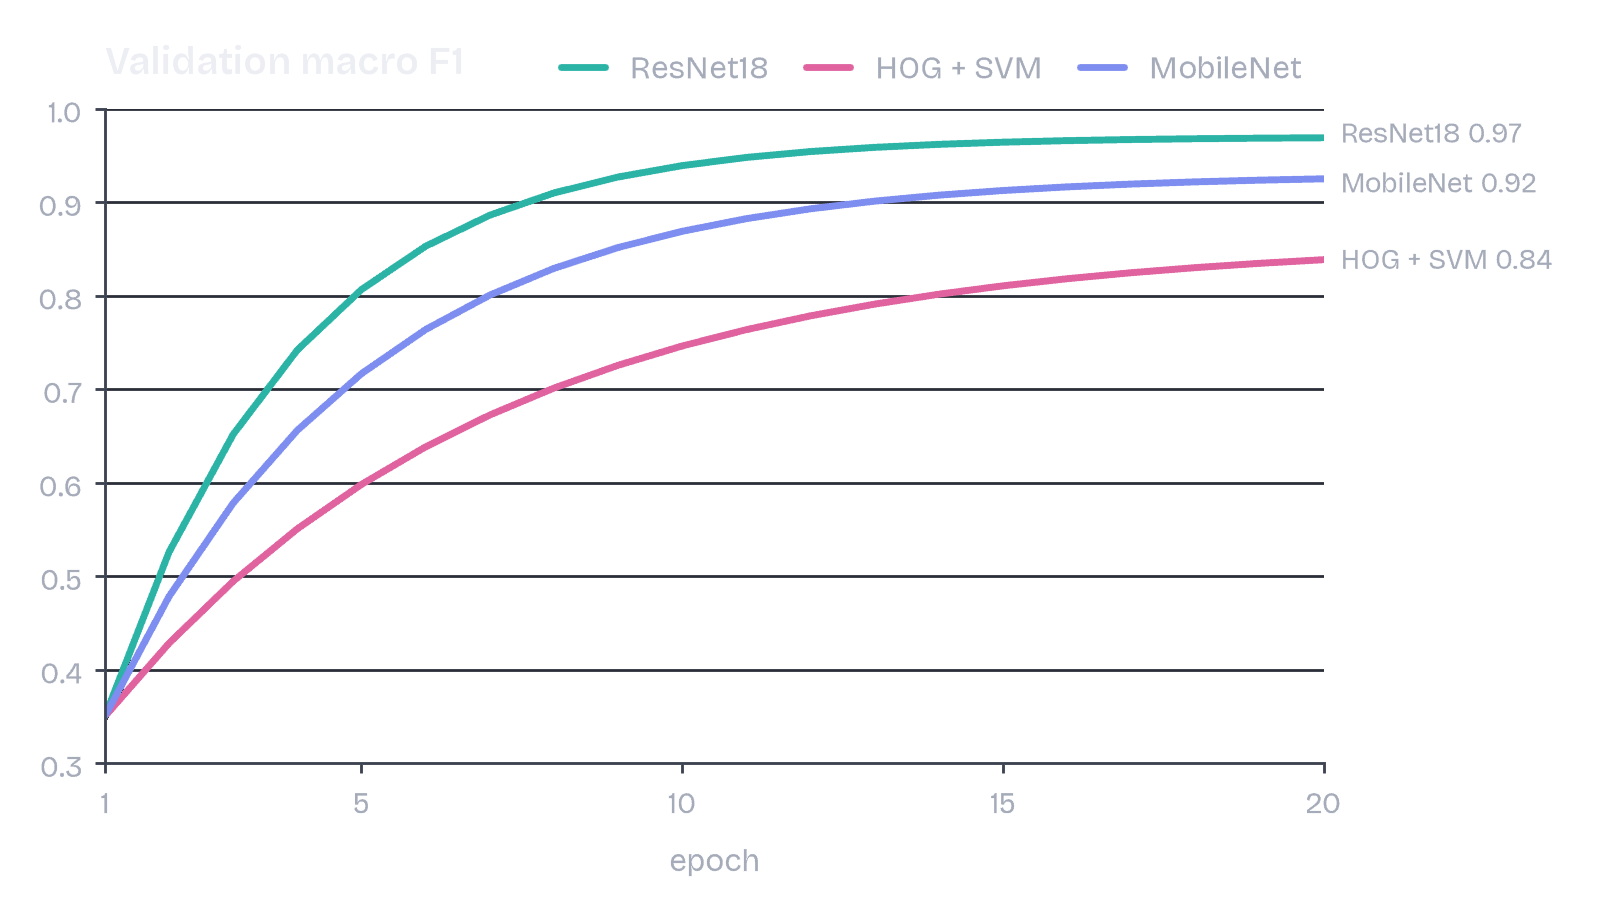
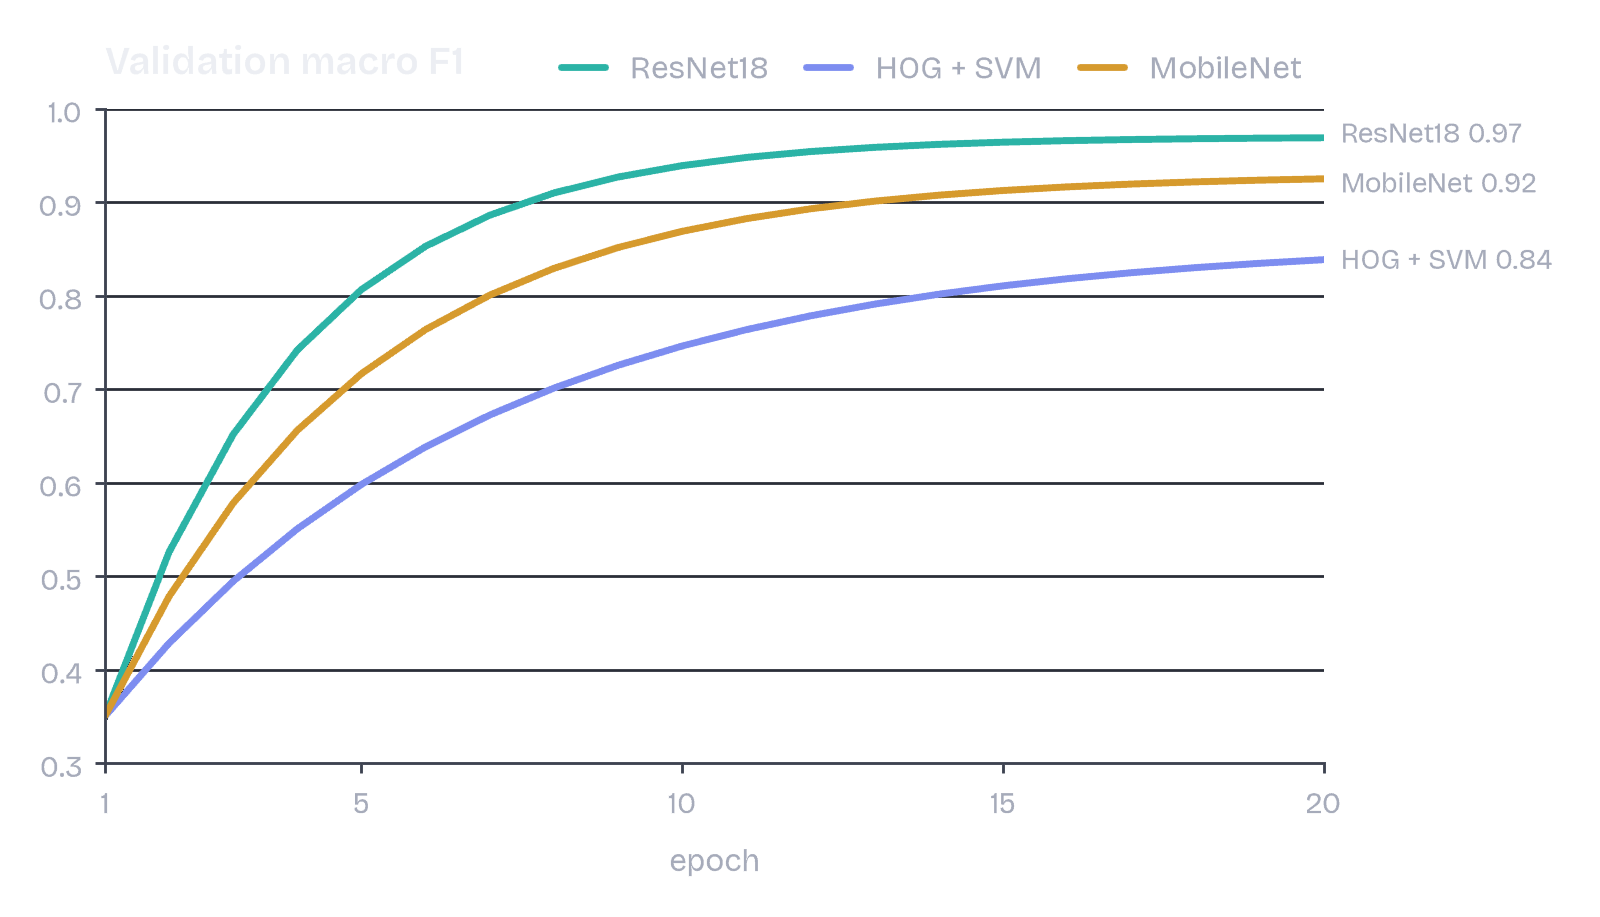
feat: check accessibility of style colours with figkit check --a11y

diff --git a/src/figkit/access.py b/src/figkit/access.py
@@ -1,0 +1,144 @@
+"""Accessibility of the colours of a style, for ``figkit check --a11y``.
+
+Three rules, checked in every theme against every page colour the theme is meant for:
+
+* Text contrast (WCAG 2.2): ``ink`` and ``secondary`` reach 4.5:1, the level of small text;
+  ``muted`` marks such as reference lines reach 3:1, the level of graphical objects.
+* Series: neighbouring slots stay apart for readers with protanopia and deuteranopia, simulated
+  after Machado, Oliveira and Fernandes (2009) at full severity, and for everyone else. The
+  distance is Euclidean in OKLab times 100, with the floors of the dataviz palette validator
+  that the bundled series were checked with: 6 under simulation and 15 in normal vision.
+* Ramp: lightness changes in one direction with a visible step between neighbours.
+
+Series below 3:1 against the page are allowed, because figures label such marks directly; see
+``docs/style-guide.md``. Alt texts are checked with the manifest by :func:`figkit.check.check`.
+"""
+
+import itertools
+import math
+from collections.abc import Sequence
+
+from figkit.theme import DEFAULT, Style, Theme
+
+TEXT_CONTRAST = 4.5
+MARK_CONTRAST = 3.0
+CVD_FLOOR = 6.0
+NORMAL_FLOOR = 15.0
+RAMP_STEP = 0.06  # OKLCH lightness between neighbouring ramp colours
+
+Matrix = tuple[tuple[float, float, float], ...]
+
+# Machado, Oliveira and Fernandes (2009), severity 1.0, applied to linear RGB.
+_SIMULATION: dict[str, Matrix] = {
+    "protanopia": (
+        (0.152286, 1.052583, -0.204868),
+        (0.114503, 0.786281, 0.099216),
+        (-0.003882, -0.048116, 1.051998),
+    ),
+    "deuteranopia": (
+        (0.367322, 0.860646, -0.227968),
+        (0.280085, 0.672501, 0.047413),
+        (-0.011820, 0.042940, 0.968881),
+    ),
+}
+
+
+def _linear(colour: str) -> tuple[float, float, float]:
+    """Linear RGB of ``#rrggbb``."""
+    channels = (int(colour[i : i + 2], 16) / 255 for i in (1, 3, 5))
+    r, g, b = (c / 12.92 if c <= 0.04045 else ((c + 0.055) / 1.055) ** 2.4 for c in channels)
+    return r, g, b
+
+
+def contrast(a: str, b: str) -> float:
+    """WCAG contrast ratio of two colours, from 1 to 21."""
+
+    def luminance(colour: str) -> float:
+        r, g, b = _linear(colour)
+        return 0.2126 * r + 0.7152 * g + 0.0722 * b
+
+    high, low = sorted((luminance(a), luminance(b)), reverse=True)
+    return (high + 0.05) / (low + 0.05)
+
+
+def _oklab(rgb: Sequence[float]) -> tuple[float, float, float]:
+    r, g, b = rgb
+    l_ = math.cbrt(0.4122214708 * r + 0.5363325363 * g + 0.0514459929 * b)
+    m_ = math.cbrt(0.2119034982 * r + 0.6806995451 * g + 0.1073969566 * b)
+    s_ = math.cbrt(0.0883024619 * r + 0.2817188376 * g + 0.6299787005 * b)
+    return (
+        0.2104542553 * l_ + 0.7936177850 * m_ - 0.0040720468 * s_,
+        1.9779984951 * l_ - 2.4285922050 * m_ + 0.4505937099 * s_,
+        0.0259040371 * l_ + 0.7827717662 * m_ - 0.8086757660 * s_,
+    )
+
+
+def _simulate(colour: str, vision: str | None) -> tuple[float, float, float]:
+    rgb = _linear(colour)
+    if vision is None:
+        return rgb
+    r, g, b = (
+        min(1.0, max(0.0, row[0] * rgb[0] + row[1] * rgb[1] + row[2] * rgb[2]))
+        for row in _SIMULATION[vision]
+    )
+    return r, g, b
+
+
+def distance(a: str, b: str, vision: str | None = None) -> float:
+    """OKLab distance times 100 of two colours, seen with ``vision`` or with normal vision."""
+    return 100 * math.dist(_oklab(_simulate(a, vision)), _oklab(_simulate(b, vision)))
+
+
+def lightness(colour: str) -> float:
+    """OKLCH lightness from 0 to 1."""
+    return _oklab(_linear(colour))[0]
+
+
+def check_style(style: Style | None = None) -> list[str]:
+    """Accessibility problems of the colours of ``style``; an empty list means it passes.
+
+    Returns:
+        One message per problem, starting with the theme it concerns.
+    """
+    style = style or DEFAULT
+    return [problem for theme in style.themes for problem in _theme_problems(theme)]
+
+
+def _theme_problems(theme: Theme) -> list[str]:
+    problems = []
+    for role, minimum in (
+        ("ink", TEXT_CONTRAST),
+        ("secondary", TEXT_CONTRAST),
+        ("muted", MARK_CONTRAST),
+    ):
+        colour: str = getattr(theme, role)
+        for page in theme.pages:
+            ratio = contrast(colour, page)
+            if ratio < minimum:
+                problems.append(
+                    f"{theme.name}: {role} {colour} has {ratio:.2f}:1 on {page}, "
+                    f"needs {minimum:g}:1"
+                )
+    for i, (a, b) in enumerate(itertools.pairwise(theme.series)):
+        pair = f"series {i + 1} {a} and {i + 2} {b}"
+        for vision in _SIMULATION:
+            gap = distance(a, b, vision)
+            if gap < CVD_FLOOR:
+                problems.append(
+                    f"{theme.name}: {pair} are {gap:.1f} apart with {vision}, need {CVD_FLOOR:g}"
+                )
+        gap = distance(a, b)
+        if gap < NORMAL_FLOOR:
+            problems.append(f"{theme.name}: {pair} are {gap:.1f} apart, need {NORMAL_FLOOR:g}")
+    levels = [lightness(c) for c in theme.ramp]
+    steps = [b - a for a, b in itertools.pairwise(levels)]
+    if steps and not (all(s > 0 for s in steps) or all(s < 0 for s in steps)):
+        problems.append(f"{theme.name}: ramp lightness does not change in one direction")
+    else:
+        problems += [
+            f"{theme.name}: ramp {theme.ramp[i]} and {theme.ramp[i + 1]} differ by "
+            f"{abs(step):.3f} in lightness, need {RAMP_STEP:g}"
+            for i, step in enumerate(steps)
+            if abs(step) < RAMP_STEP
+        ]
+    return problems

diff --git a/tests/test_access.py b/tests/test_access.py
@@ -1,0 +1,84 @@
+"""Accessibility of the colours of a style."""
+
+import json
+from pathlib import Path
+from typing import Any
+
+import pytest
+
+import figkit
+from figkit.access import check_style, contrast, distance
+from figkit.cli import main
+
+ROOT = Path(__file__).resolve().parents[1]
+
+
+def style_with(change: dict[str, Any]) -> figkit.Style:
+    """The bundled style with the keys of ``change`` replaced in its light theme."""
+    data = json.loads(json.dumps(figkit.tokens()))
+    data["themes"]["light"].update(change)
+    return figkit.parse_style(data)
+
+
+def test_the_bundled_and_the_example_style_pass() -> None:
+    assert check_style() == []
+    assert check_style(figkit.load_style(ROOT / "docs/examples/style/tokens.json")) == []
+
+
+def test_contrast_and_distance_match_known_values() -> None:
+    assert contrast("#000000", "#ffffff") == pytest.approx(21)
+    assert contrast("#777777", "#ffffff") == pytest.approx(4.48, abs=0.01)
+    assert distance("#000000", "#ffffff") == pytest.approx(100, abs=0.01)
+    # Red and green, far apart in normal vision, nearly merge without red cones.
+    assert distance("#d03b3b", "#3b8f3b") > 15
+    assert distance("#d03b3b", "#3b8f3b", "protanopia") < distance("#d03b3b", "#3b8f3b") / 2
+
+
+@pytest.mark.parametrize(
+    ("change", "problem"),
+    [
+        ({"ink": "#999999"}, "light: ink #999999 has 2.69:1 on #faf8f4, needs 4.5:1"),
+        ({"secondary": "#8a8a8a"}, "light: secondary #8a8a8a has"),
+        ({"muted": "#c0c0c0"}, "light: muted #c0c0c0 has"),
+        (
+            {"series": ["#0f766e", "#b4387a", "#1baf7a", "#eda100"]},
+            "light: series 1 #0f766e and 2 #b4387a are 4.0 apart with deuteranopia, need 6",
+        ),
+        (
+            {"series": ["#2f5bd3", "#3060d8", "#1baf7a", "#eda100"]},
+            "light: series 1 #2f5bd3 and 2 #3060d8 are",
+        ),
+        ({"ramp": ["#f4f8fd", "#9ec5f4", "#cde2fb"]}, "light: ramp lightness does not change"),
+        ({"ramp": ["#f4f8fd", "#eef4fc"]}, "light: ramp #f4f8fd and #eef4fc differ by"),
+    ],
+)
+def test_each_rule_reports_its_problem(change: dict[str, Any], problem: str) -> None:
+    problems = check_style(style_with(change))
+
+    assert any(p.startswith(problem) for p in problems), problems
+    assert all(p.startswith("light:") for p in problems)
+
+
+def test_close_series_fail_in_normal_vision_too() -> None:
+    problems = check_style(style_with({"series": ["#2f5bd3", "#3060d8", "#1baf7a", "#eda100"]}))
+
+    assert any(p.endswith("need 15") for p in problems)
+
+
+def test_cli_checks_the_style_only_with_a11y(
+    tmp_path: Path, monkeypatch: pytest.MonkeyPatch, capsys: pytest.CaptureFixture[str]
+) -> None:
+    data = json.loads(json.dumps(figkit.tokens()))
+    data["themes"]["dark"]["secondary"] = "#3d4250"
+    (tmp_path / "tokens.json").write_text(json.dumps(data), encoding="utf-8")
+    (tmp_path / "pyproject.toml").write_text(
+        '[tool.figkit]\ntokens = "tokens.json"\n', encoding="utf-8"
+    )
+    (tmp_path / "figures").mkdir()
+    monkeypatch.chdir(tmp_path)
+
+    assert main(["check", "figures"]) == 0
+    assert main(["check", "--a11y"]) == 1
+    assert "tokens.json: dark: secondary #3d4250 has" in capsys.readouterr().err
+    assert main(["check", "--a11y", "--style", str(ROOT / "src/figkit/tokens.json")]) == 0
+    assert "tokens.json: accessible" in capsys.readouterr().out

diff --git a/src/figkit/cli.py b/src/figkit/cli.py
@@ -5,6 +5,7 @@ import sys
 from collections.abc import Sequence
 from pathlib import Path
 
+from figkit.access import check_style
 from figkit.check import check, check_tokens
 from figkit.export import WEB_WIDTH
 from figkit.preview import preview
@@ -36,6 +37,11 @@ def main(argv: Sequence[str] | None = None) -> int:
         "--any-width",
         action="store_true",
         help="do not require the fixed canvas width of web figures",
+    )
+    checker.add_argument(
+        "--a11y",
+        action="store_true",
+        help="check the contrast of text, the colour-blind separation of series and the ramp",
     )
     checker.add_argument(
         "--css",
@@ -121,6 +127,15 @@ def _preview(directory: Path, tokens: Path | None) -> int:
     return 0
 
 
+def _report(problems: list[str], passed: str) -> bool:
+    """Print the problems, or ``passed`` without any; return whether there were problems."""
+    for problem in problems:
+        print(problem, file=sys.stderr)
+    if not problems:
+        print(passed)
+    return bool(problems)
+
+
 def _check(parser: argparse.ArgumentParser, args: argparse.Namespace) -> int:
     try:
         settings = project()
@@ -129,20 +144,19 @@ def _check(parser: argparse.ArgumentParser, args: argparse.Namespace) -> int:
         print(error, file=sys.stderr)
         return 1
     css = args.css or settings.css
-    if not args.directories and css is None:
-        parser.error("check needs a directory, --css or css in [tool.figkit]")
+    if not args.directories and css is None and not args.a11y:
+        parser.error("check needs a directory, --a11y, --css or css in [tool.figkit]")
 
     failed = False
+    if args.a11y:
+        label = str(style.source) if style.source is not None else "bundled style"
+        failed = _report([f"{label}: {p}" for p in check_style(style)], f"{label}: accessible")
     if css is not None:
         try:
             problems = check_tokens(css, style)
         except OSError as error:
             problems = [f"{css}: cannot be read, {error.strerror or error}"]
-        for problem in problems:
-            print(problem, file=sys.stderr)
-        failed = bool(problems)
-        if not problems:
-            print(f"{css}: ok")
+        failed = _report(problems, f"{css}: ok") or failed
     for directory in args.directories:
         if not directory.is_dir():
             print(f"{directory}: not a directory", file=sys.stderr)

diff --git a/README.md b/README.md
@@ -263,7 +263,7 @@ other series colours and a `print` theme; the same line chart in it:
   <tr>
     <td width="50%"><picture>
       <source media="(prefers-color-scheme: dark)" srcset="docs/examples/style/lines-dark.svg">
-      <img src="docs/examples/style/lines.svg" alt="The line chart in the example style with teal, magenta and blue lines.">
+      <img src="docs/examples/style/lines.svg" alt="The line chart in the example style with teal, blue and amber lines.">
     </picture></td>
     <td width="50%"><img src="docs/examples/style/lines-print.png" alt="The line chart in the print theme of the example style, in black and greys."></td>
   </tr>
@@ -324,7 +324,7 @@ figure uses it.
 ## Command line
 
 ```sh
-figkit check [DIRECTORY ...] [--css CSS] [--style TOKENS] [--opaque NAME] [--any-width]
+figkit check [DIRECTORY ...] [--a11y] [--css CSS] [--style TOKENS] [--opaque NAME] [--any-width]
 figkit init [--tokens TOKENS] [--css CSS]
 figkit style preview [DIRECTORY] [--style TOKENS]
 ```
@@ -344,6 +344,7 @@ the minimum size of the style fails the preview.
 | `--style TOKENS` | Style that wrote the figures; overrides `[tool.figkit]`. |
 | `--opaque NAME` | Figure that is opaque on purpose; repeatable, default `card`. |
 | `--any-width` | Does not require the fixed canvas width of web figures. |
+| `--a11y` | Checks the colours of the style: text contrast (WCAG), the separation of neighbouring series under protanopia, deuteranopia and normal vision, and an evenly stepped ramp. Works without a directory. |
 
 The exit code is 1 on any problem:
 

diff --git a/CHANGELOG.md b/CHANGELOG.md
@@ -18,6 +18,16 @@ section of that version.
   `small_multiples` lays out panels on the canvas width with shared axes and `ramp_cmap` turns
   the ramp of a theme into a colormap.
 - The gallery shows small multiples with bands and a callout.
+- `figkit check --a11y` checks the colours of the style: text contrast after WCAG, the
+  separation of neighbouring series with protanopia, deuteranopia and normal vision, and the
+  steps of the ramp. It runs without a directory as well.
+
+### Changed
+
+- The dark ramp of the bundled style is stepped evenly in lightness. Three middle steps were
+  less than 0.06 apart; dark heatmaps and the tiles of the dark card change their blues.
+- The example style in `docs/examples/style` orders its series teal, blue, amber, magenta, so
+  that neighbours stay apart with deuteranopia.
 
 ## [0.4.0] - 2026-11-26
 

diff --git a/docs/style-guide.md b/docs/style-guide.md
@@ -44,6 +44,11 @@ node validate_palette.js "#5b84ea,#d95926,#199e70,#c98500" --mode dark --surface
 Text colours are tested in `tests/test_figkit.py`. Against every page, ink reaches at least 7:1,
 secondary at least 4.5:1 and muted at least 3:1.
 
+`figkit check --a11y` checks these rules for any style, with the floors of the validator: text
+4.5:1 and muted 3:1 on every page, neighbouring series at least 6 apart (OKLab ×100) with
+protanopia and deuteranopia and 15 apart in normal vision, and ramp steps at least 0.06 apart in
+OKLCH lightness. Series below 3:1 against the page stay allowed, see above.
+
 ## 3. Type and layout
 
 - Bricolage Grotesque for text, JetBrains Mono for numbers and identifiers (`figkit.value`,
